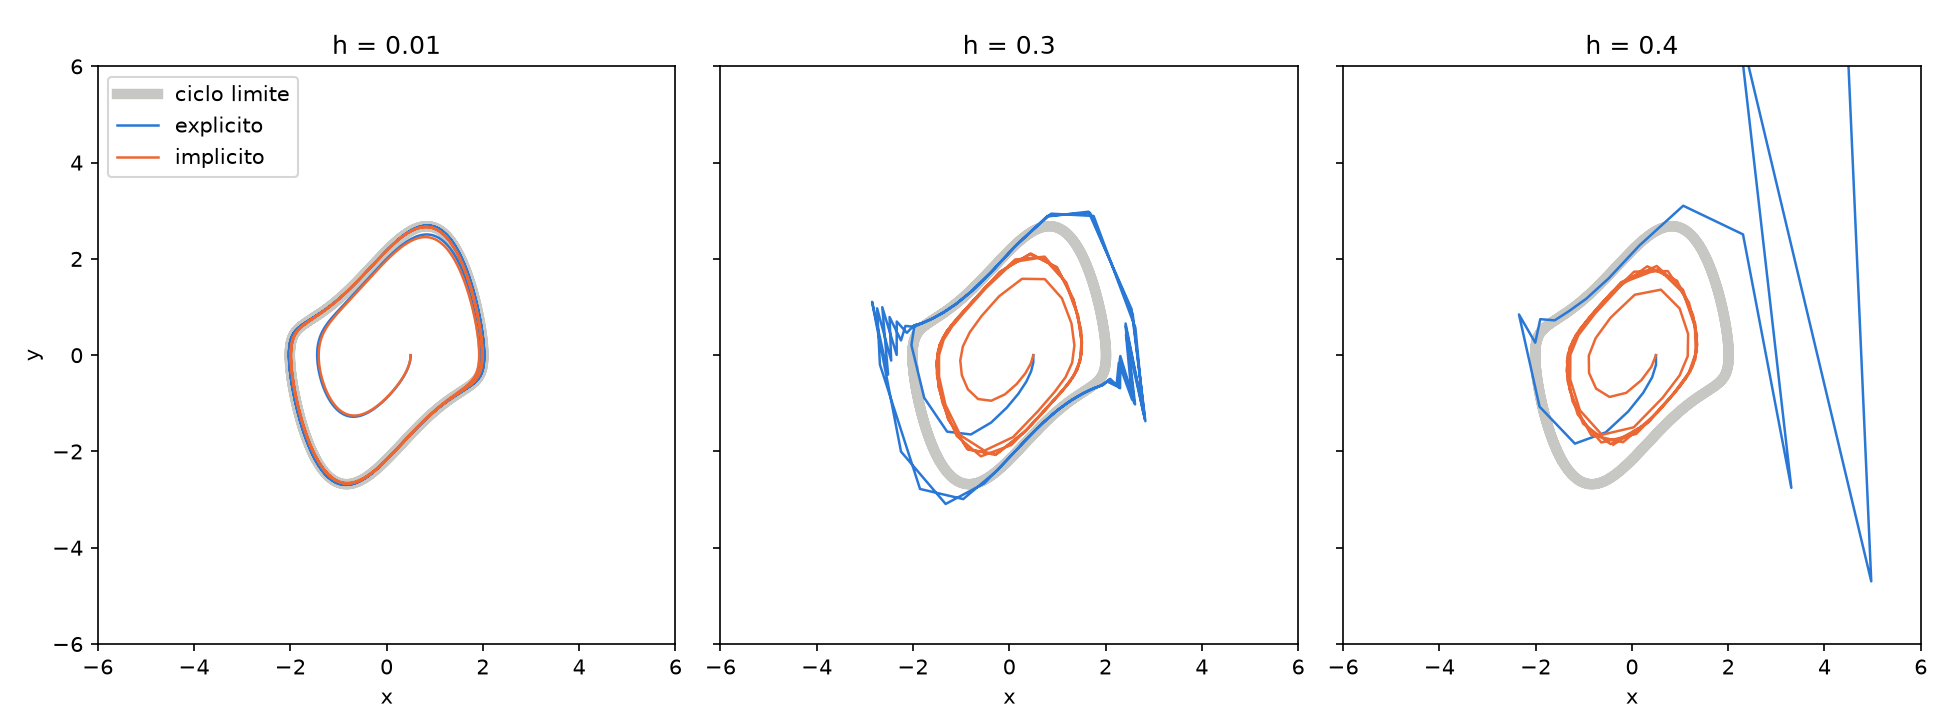
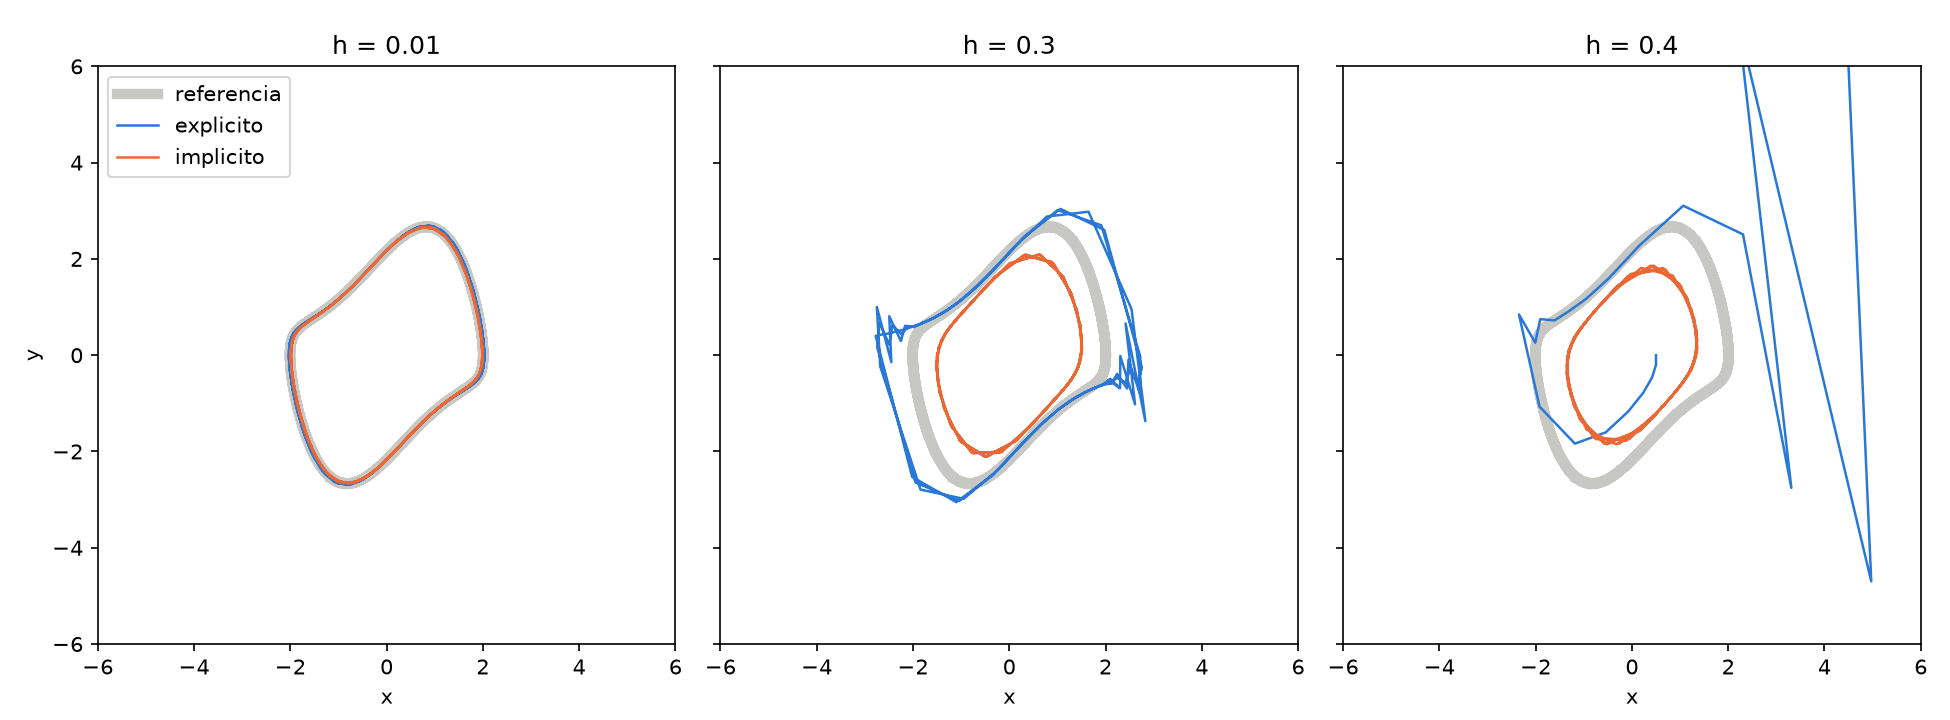
Euler en tiempos largos: referencia RK4 y retraso de fase de la órbita estable
- Unidad 05: t_final = 3000, escritura cada 0.1 de tiempo y programa de referencia (RK4).
- Unidad 06: euler.py mide periodo, amplitud y retraso respecto a la referencia.
- Figuras nuevas: retraso acumulado con varios h y órbitas con pasos grandes.

diff --git a/06_visualizacion/euler.py b/06_visualizacion/euler.py
@@ -1,30 +1,85 @@
-# Dibuja los dos Euler de la unidad 05: x(t) y el plano de fases.
-# Antes hay que ejecutar ./euler_explicito y ./euler_implicito dentro de 05_euler.
+# Compara los dos Euler de la unidad 05 con la solución de referencia.
+# Antes hay que ejecutar los tres programas dentro de 05_euler:
+# euler_explicito, euler_implicito y referencia.
 #
 #     python euler.py
 import numpy as np
 import matplotlib.pyplot as plt
+from numpy.lib.stride_tricks import sliding_window_view
 
-t_e, x_e, y_e = np.loadtxt("../05_euler/euler_explicito.dat", unpack=True)
+t, x_e, y_e = np.loadtxt("../05_euler/euler_explicito.dat", unpack=True)
 t_i, x_i, y_i = np.loadtxt("../05_euler/euler_implicito.dat", unpack=True)
+t_r, x_r, y_r = np.loadtxt("../05_euler/referencia.dat", unpack=True)
 
-fig, (izquierda, derecha) = plt.subplots(1, 2, figsize=(12, 5))
+# La referencia se escribe cada 0.1 de tiempo; la interpolamos en los instantes de cada Euler.
+x_ref_e = np.interp(t, t_r, x_r)
+x_ref_i = np.interp(t_i, t_r, x_r)
 
-izquierda.plot(t_e, x_e, color="#2a78d6", lw=1.5, label="explicito")
-izquierda.plot(t_i, x_i, color="#eb6834", lw=1.5, label="implicito")
+
+def cruces(t, x):
+    """Instantes en que x pasa por cero hacia arriba (con interpolación lineal)."""
+    k = np.where((x[:-1] < 0) & (x[1:] >= 0))[0]
+    return t[k] - x[k] * (t[k + 1] - t[k]) / (x[k + 1] - x[k])
+
+
+def periodo(t, x):
+    c = cruces(t, x)
+    return (c[-1] - c[0]) / (len(c) - 1)
+
+
+def envolvente(t, error, ancho=7.0):
+    """Máximo del error en ventanas de ancho 7 (algo más que un periodo)."""
+    n = int(ancho / (t[1] - t[0]))
+    return t[:len(t) - n + 1], sliding_window_view(error, n).max(axis=1)
+
+
+# Para qué sirve cada cifra: el periodo y la amplitud del ciclo, y cuándo se despega el Euler.
+print(f"{'':>10} {'periodo':>9} {'amplitud':>9} {'t con error > 0.5':>18}")
+for nombre, tt, x, x_ref in [("referencia", t_r, x_r, x_r), ("explicito", t, x_e, x_ref_e),
+                              ("implicito", t_i, x_i, x_ref_i)]:
+    tv, env = envolvente(tt, np.abs(x - x_ref))
+    despega = tv[np.argmax(env > 0.5)] if (env > 0.5).any() else float("nan")
+    ultimos = tt > tt[-1] / 2
+    print(f"{nombre:>10} {periodo(tt, x):9.4f} {np.abs(x[ultimos]).max():9.4f} {despega:18.0f}")
+
+fig, (izquierda, centro, derecha) = plt.subplots(1, 3, figsize=(15, 4.6))
+
+# x(t) al final de la simulación.
+ventana = t > t[-1] - 30
+izquierda.plot(t_r[t_r > t_r[-1] - 30], x_r[t_r > t_r[-1] - 30], color="#a3a29c", lw=5, alpha=0.7,
+               label="referencia")
+izquierda.plot(t[ventana], x_e[ventana], color="#2a78d6", lw=1.5, label="explicito")
+izquierda.plot(t_i[ventana], x_i[ventana], color="#eb6834", lw=1.5, label="implicito")
+izquierda.set_title(f"x(t) al final, de t = {t[-1] - 30:.0f} a {t[-1]:.0f}")
 izquierda.set_xlabel("t")
 izquierda.set_ylabel("x")
-izquierda.set_ylim(-5, 5)       # para que se vea algo aunque la solución explote
-izquierda.legend()
+izquierda.legend(loc="upper left", fontsize=8)
 
-derecha.plot(x_e, y_e, color="#2a78d6", lw=1.5, label="explicito")
-derecha.plot(x_i, y_i, color="#eb6834", lw=1.5, label="implicito")
+# Retraso acumulado: cuánto más tarde (o antes) que la referencia llega cada Euler al
+# mismo cruce por cero, medido en periodos. Si llega a 0.5, está justo en oposición de fase.
+c_r = cruces(t_r, x_r)
+for tt, x, color, nombre in [(t, x_e, "#2a78d6", "explicito"), (t_i, x_i, "#eb6834", "implicito")]:
+    c = cruces(tt, x)
+    n = min(len(c), len(c_r))
+    centro.plot(c_r[:n], (c[:n] - c_r[:n]) / periodo(t_r, x_r), color=color, lw=1.5, label=nombre)
+centro.axhline(0.5, color="#a3a29c", ls="--", lw=1)
+centro.axhline(-0.5, color="#a3a29c", ls="--", lw=1)
+centro.set_title("Retraso respecto a la referencia")
+centro.set_xlabel("t")
+centro.set_ylabel("retraso, en periodos")
+centro.legend(fontsize=8)
+centro.grid(alpha=0.3)
+
+# Plano de fases al final.
+derecha.plot(x_r[t_r > t_r[-1] - 30], y_r[t_r > t_r[-1] - 30], color="#a3a29c", lw=5, alpha=0.7,
+             label="referencia")
+derecha.plot(x_e[ventana], y_e[ventana], color="#2a78d6", lw=1.2, label="explicito")
+derecha.plot(x_i[ventana], y_i[ventana], color="#eb6834", lw=1.2, label="implicito")
+derecha.set_title("Plano de fases al final")
 derecha.set_xlabel("x")
 derecha.set_ylabel("y")
-derecha.set_xlim(-5, 5)
-derecha.set_ylim(-5, 5)
 derecha.set_aspect("equal")
-derecha.legend()
+derecha.legend(loc="upper left", fontsize=8)
 
 fig.tight_layout()
 fig.savefig("euler.png", dpi=150)
